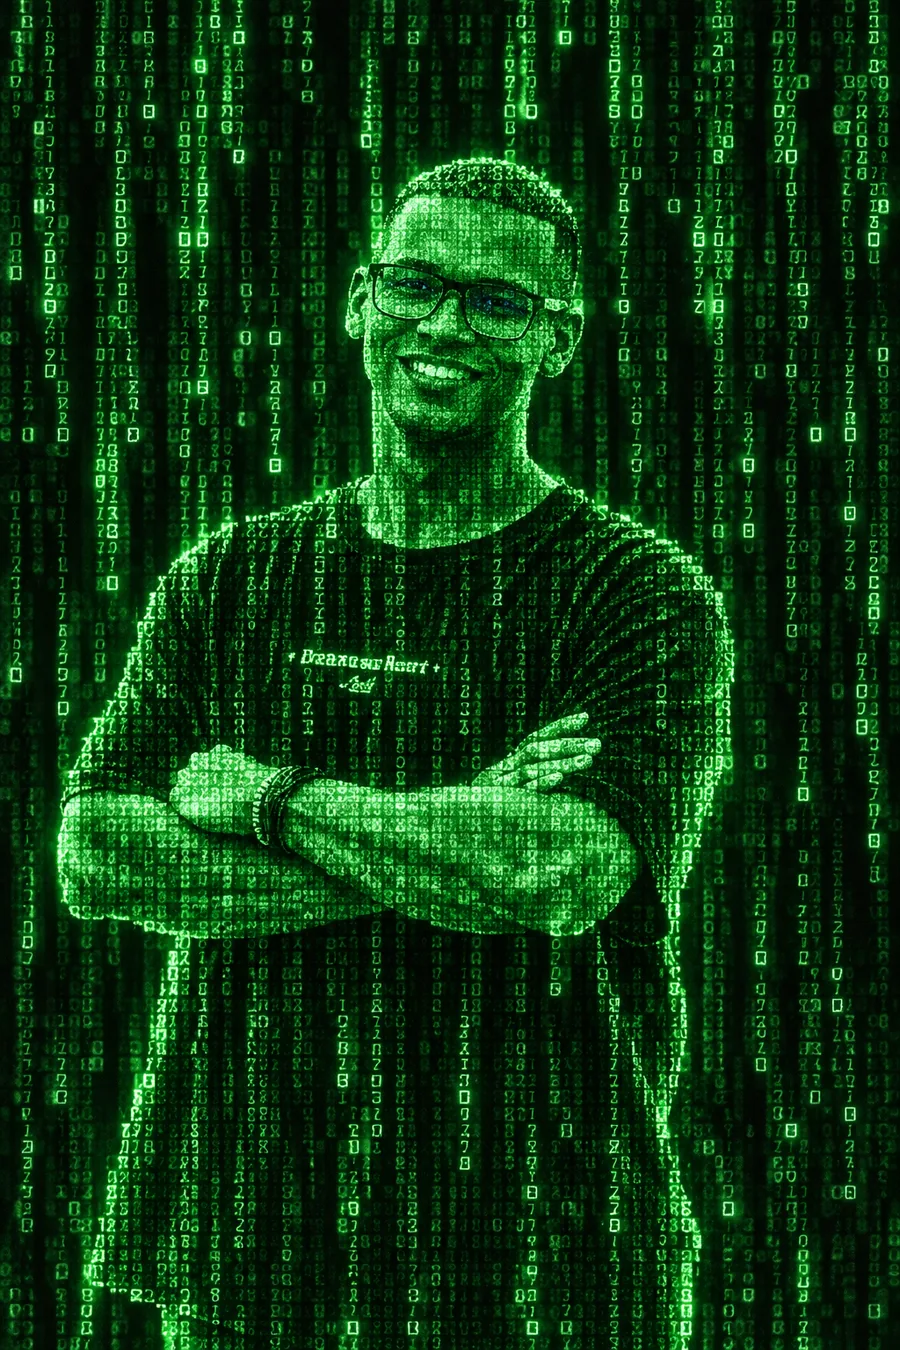
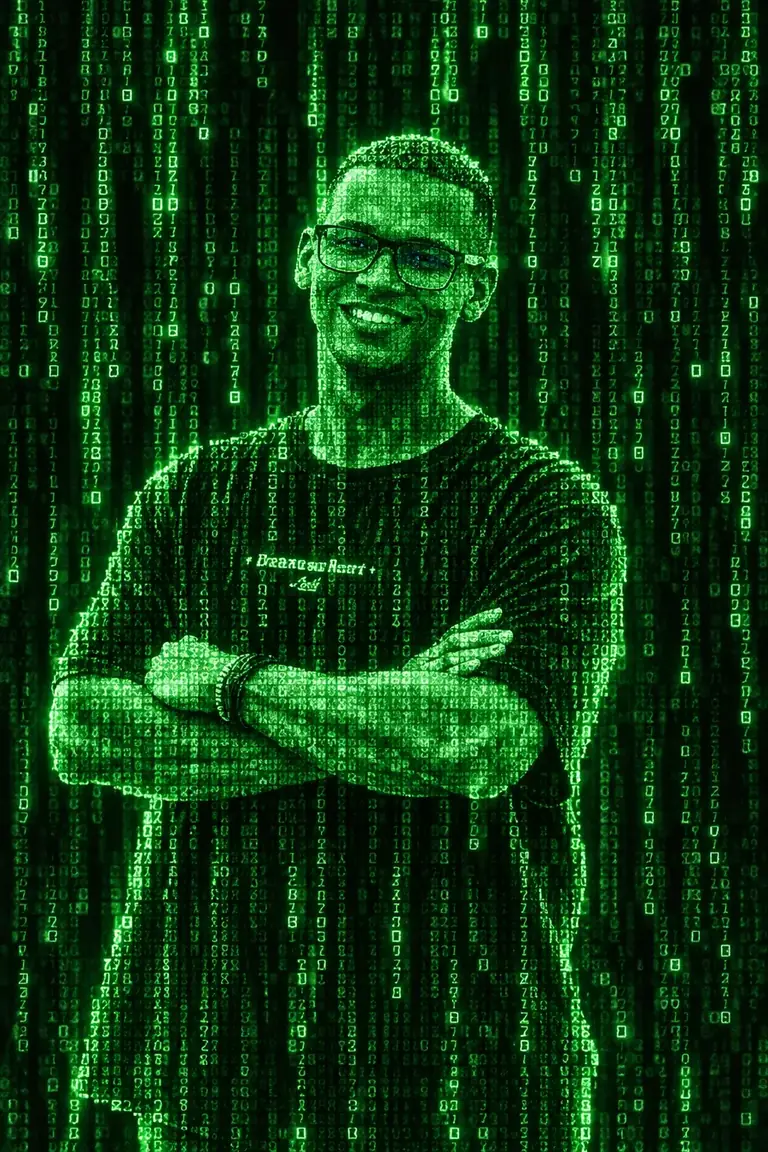
Recomprime retrato hero e adiciona loader Matrix durante carregamento
Reduz portrait-matrix.webp de 299KB para 159KB (768x1152, webp q70).
Adiciona overlay com grid 5x5 de células pulsantes (cor primary) que
cobre a imagem até o onLoad disparar, disfarçando o peso de carregamento.

diff --git a/src/routes/index.tsx b/src/routes/index.tsx
@@ -1,3 +1,4 @@
+import { useState } from 'react'
 import { createFileRoute, Link } from '@tanstack/react-router'
 import { Mail } from 'lucide-react'
 import { Badge } from '@/components/ui/badge'
@@ -16,6 +17,7 @@ export const Route = createFileRoute('/')({
 
 function Home() {
   const featured = projects.slice(0, 4)
+  const [portraitLoaded, setPortraitLoaded] = useState(false)
 
   return (
     <div className="flex flex-col gap-24 py-16 sm:py-24">
@@ -40,13 +42,31 @@ function Home() {
             </Button>
           </div>
         </div>
-        <div className="border-primary/30 shadow-primary/10 mx-auto w-full max-w-xs overflow-hidden rounded-lg border shadow-lg sm:max-w-sm">
+        <div className="border-primary/30 shadow-primary/10 relative mx-auto w-full max-w-xs overflow-hidden rounded-lg border shadow-lg sm:max-w-sm">
+          {!portraitLoaded && (
+            <div className="bg-card absolute inset-0 flex items-center justify-center">
+              <ul className="grid grid-cols-5 gap-2">
+                {Array.from({ length: 25 }).map((_, i) => {
+                  const row = Math.floor(i / 5)
+                  const col = i % 5
+                  return (
+                    <li
+                      key={i}
+                      className="matrix-loader-cell size-3 rounded-sm"
+                      style={{ animationDelay: `${0.1 * (row + col + 1)}s` }}
+                    />
+                  )
+                })}
+              </ul>
+            </div>
+          )}
           <img
             src={portrait}
             alt="Retrato de César Damasceno estilizado como chuva digital Matrix"
-            className="w-full"
-            width={900}
-            height={1350}
+            className={`w-full transition-opacity duration-500 ${portraitLoaded ? 'opacity-100' : 'opacity-0'}`}
+            width={768}
+            height={1152}
+            onLoad={() => setPortraitLoaded(true)}
           />
         </div>
       </section>

diff --git a/src/index.css b/src/index.css
@@ -88,4 +88,24 @@
       0 0 6px color-mix(in oklab, var(--primary) 80%, transparent),
       0 0 18px color-mix(in oklab, var(--primary) 45%, transparent);
   }
+
+  .matrix-loader-cell {
+    background: var(--primary);
+    box-shadow:
+      0 0 2px var(--foreground),
+      0 0 6px color-mix(in oklab, var(--primary) 80%, transparent),
+      0 0 14px color-mix(in oklab, var(--primary) 60%, transparent);
+    animation: matrix-loader-pulse 0.8s linear infinite alternate;
+  }
+
+  @keyframes matrix-loader-pulse {
+    0% {
+      transform: scale(1);
+      opacity: 1;
+    }
+    100% {
+      transform: scale(0.1);
+      opacity: 0;
+    }
+  }
 }
